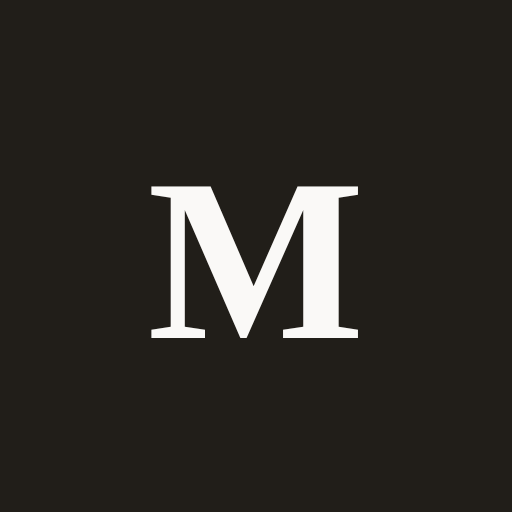
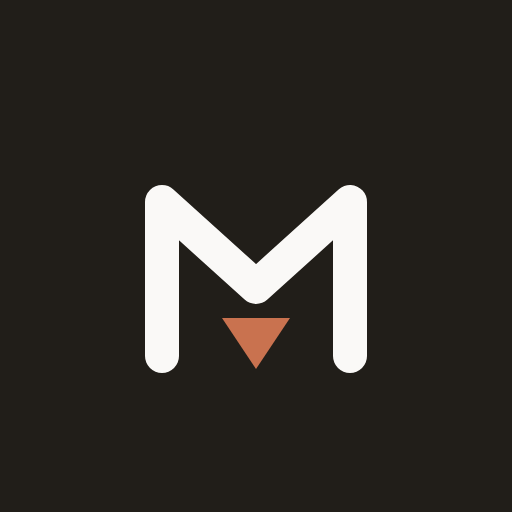
Redesign the mark: M with a markdown down-arrow
The plain serif letter becomes a drawn logo - a rounded cream M whose
center vertex carries a rust down-arrow, nodding to the markdown mark
(M-down) and to mulling: letting things sink in. Replaced everywhere:
both SVG icons, the 192/512 PNGs, maskable set, apple-touch icon,
favicon.ico, the og-image social card, and the welcome-screen mark
(now an inline theme-aware SVG; the arrow flips to paper-white in
e-ink mode where rust would vanish on the black tile). Bump SW cache
to mull-v2.

Claude-Session: https://claude.ai/code/session_018CTHJXbZn3YTxRY57wK33J

Changed region(s): [[0.2812, 0.3438, 0.7188, 0.75]]

diff --git a/index.html b/index.html
@@ -87,7 +87,9 @@
     <main id="main" class="main">
       <section id="welcome" class="welcome">
         <div class="welcome-inner">
-          <div class="welcome-mark" aria-hidden="true">M</div>
+          <div class="welcome-mark" aria-hidden="true">
+            <svg viewBox="107 149 298 247"><path d="M136 374 V178 L256 286 L376 178 V374" fill="none" stroke="currentColor" stroke-width="42" stroke-linecap="round" stroke-linejoin="round"/><path class="mark-arrow" d="M212 322 h88 L256 388 Z" fill="#c9724f"/></svg>
+          </div>
           <h1>Mull Reader</h1>
           <p class="welcome-sub">A lightweight, open-source markdown reader to consume knowledge created by AI agents.<br>Mobile friendly — and all documents remain local, always.<br>A progressive web app: install it and it works offline.</p>
           <button id="welcome-open-btn" class="cta">Open a folder</button>

diff --git a/styles.css b/styles.css
@@ -369,11 +369,11 @@ details.tree-dir > summary:hover { background: var(--bg-raised); color: var(--in
   border-radius: 20px;
   background: var(--ink-strong);
   color: var(--bg);
-  font-family: var(--serif);
-  font-size: 44px;
-  font-weight: 700;
   box-shadow: var(--shadow);
 }
+.welcome-mark svg { width: 44px; height: 36px; display: block; }
+/* e-ink is pure grayscale and the tile is black — the rust arrow would vanish */
+:root[data-eink] .welcome-mark .mark-arrow { fill: var(--bg); }
 
 .welcome h1 {
   font-family: var(--serif);

diff --git a/sw.js b/sw.js
@@ -1,6 +1,6 @@
 // Mull Reader service worker — cache-first app shell for full offline use.
 
-const CACHE = 'mull-v1';
+const CACHE = 'mull-v2';
 
 const ASSETS = [
   './',
